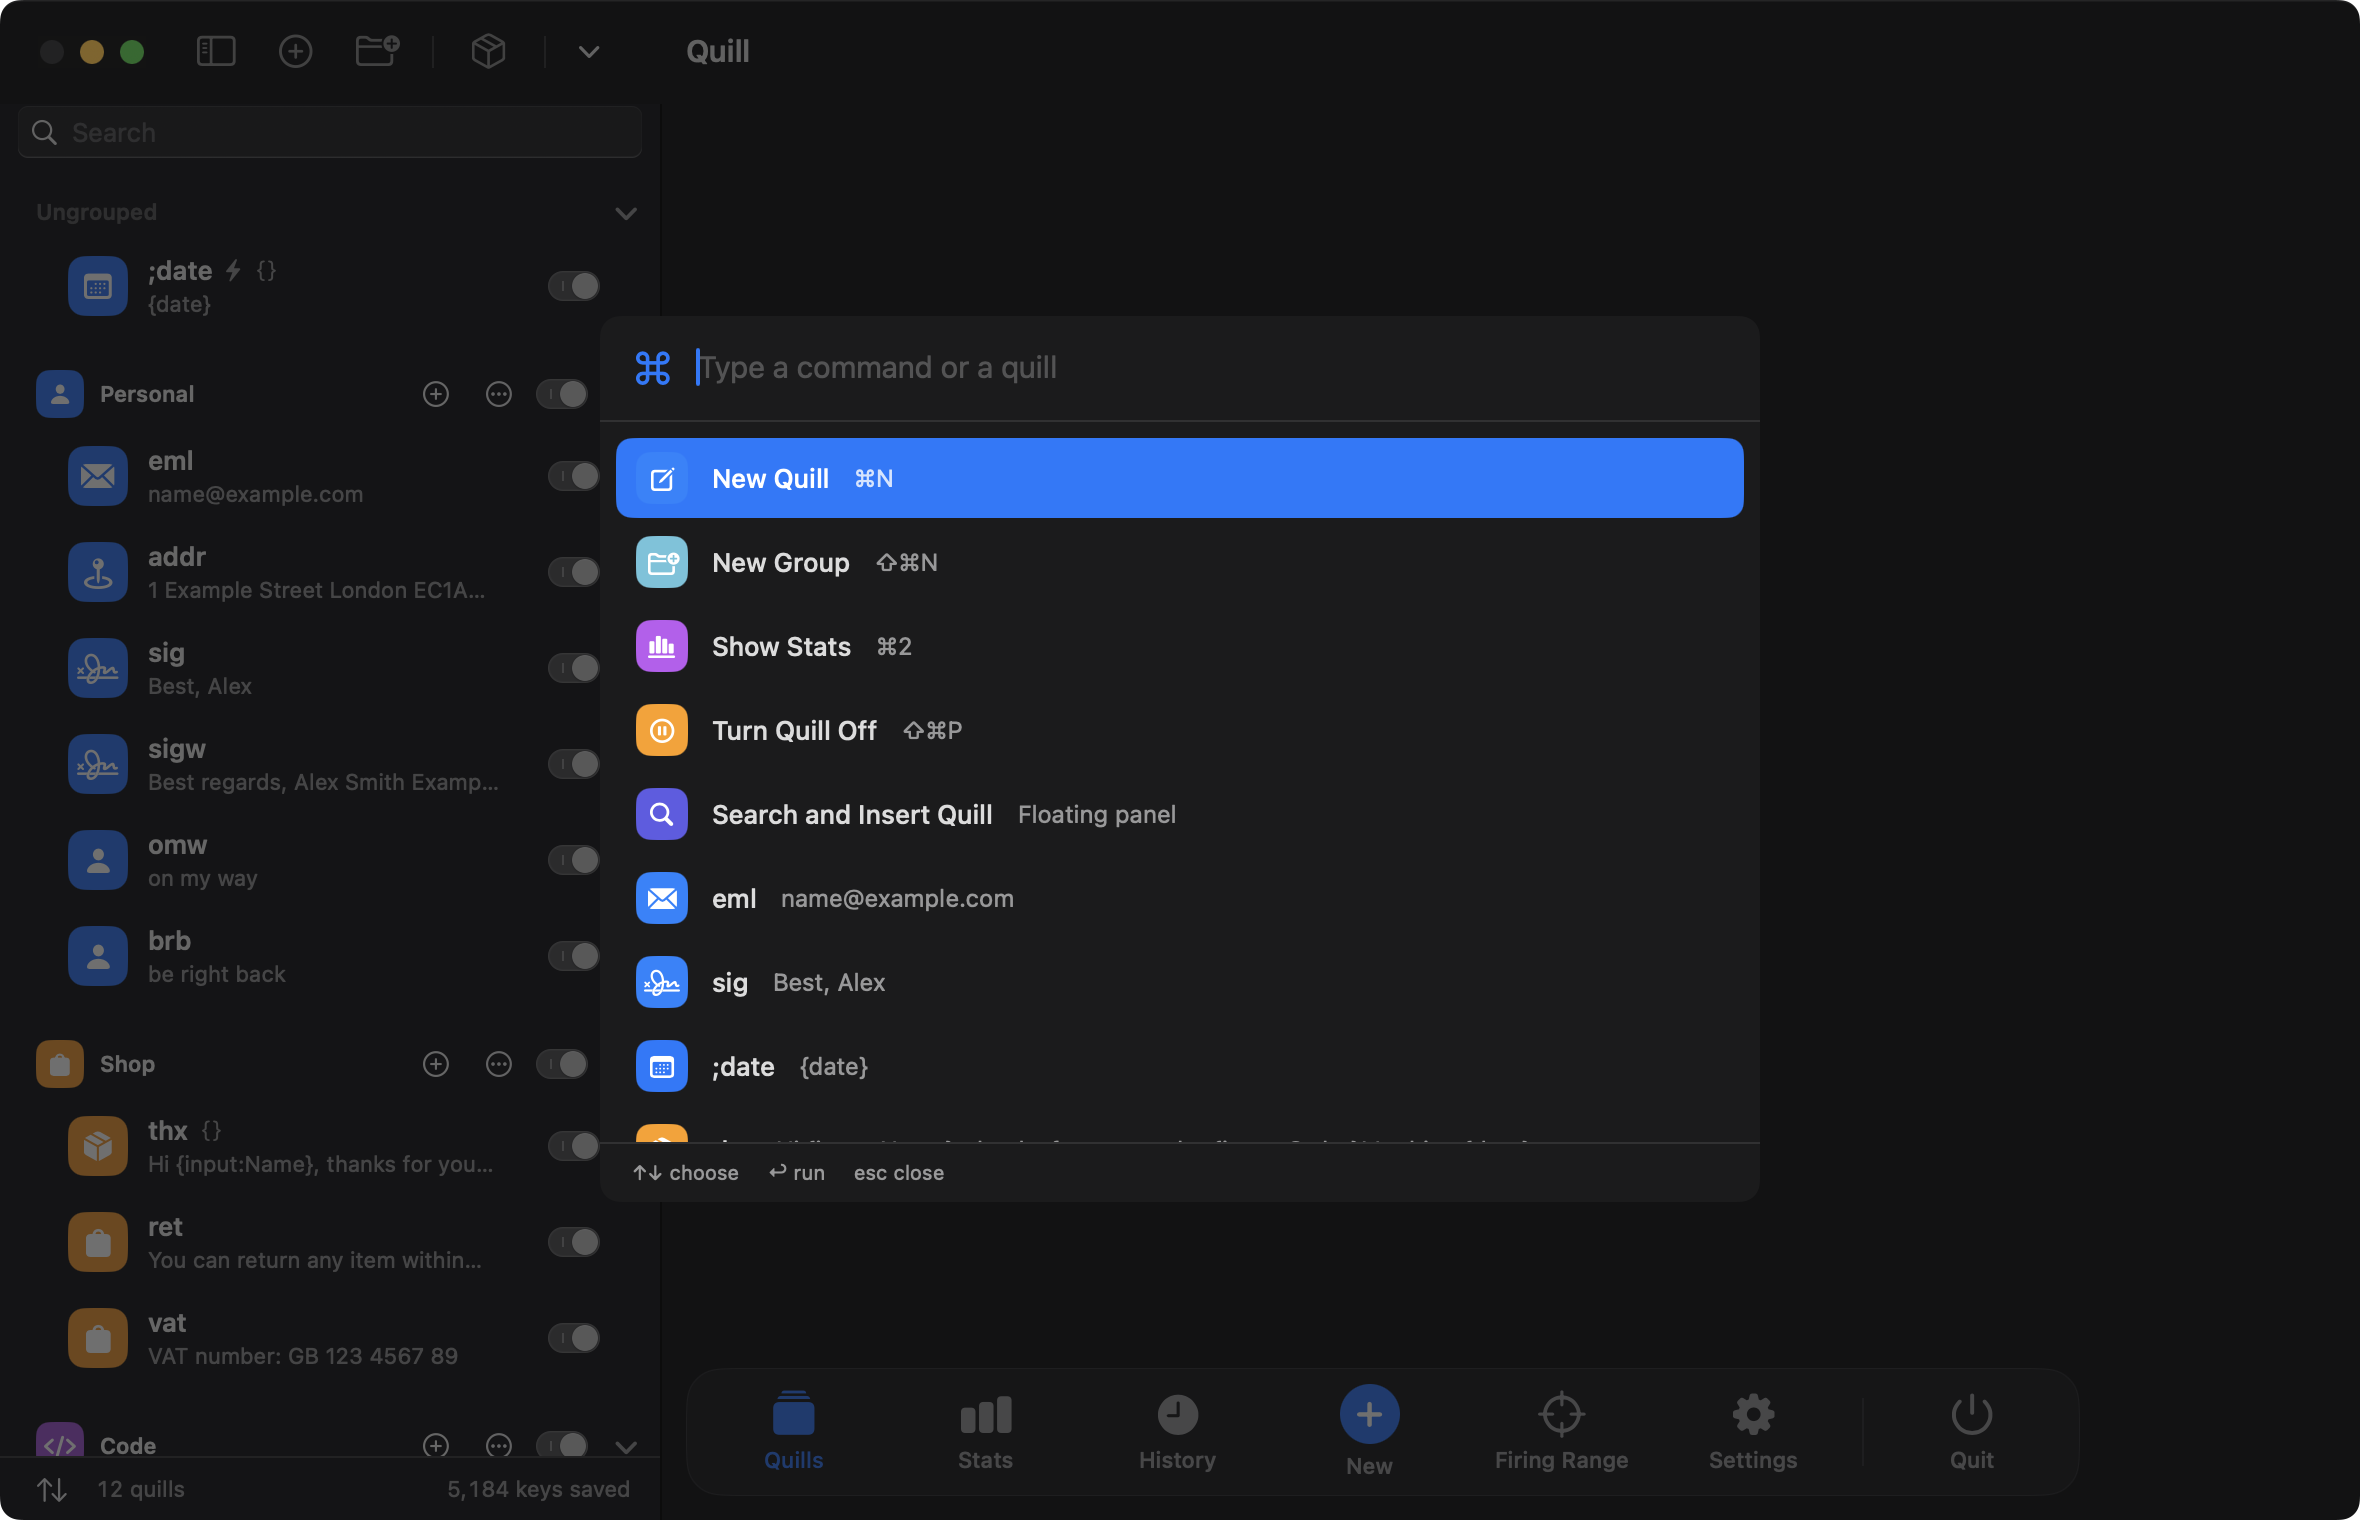
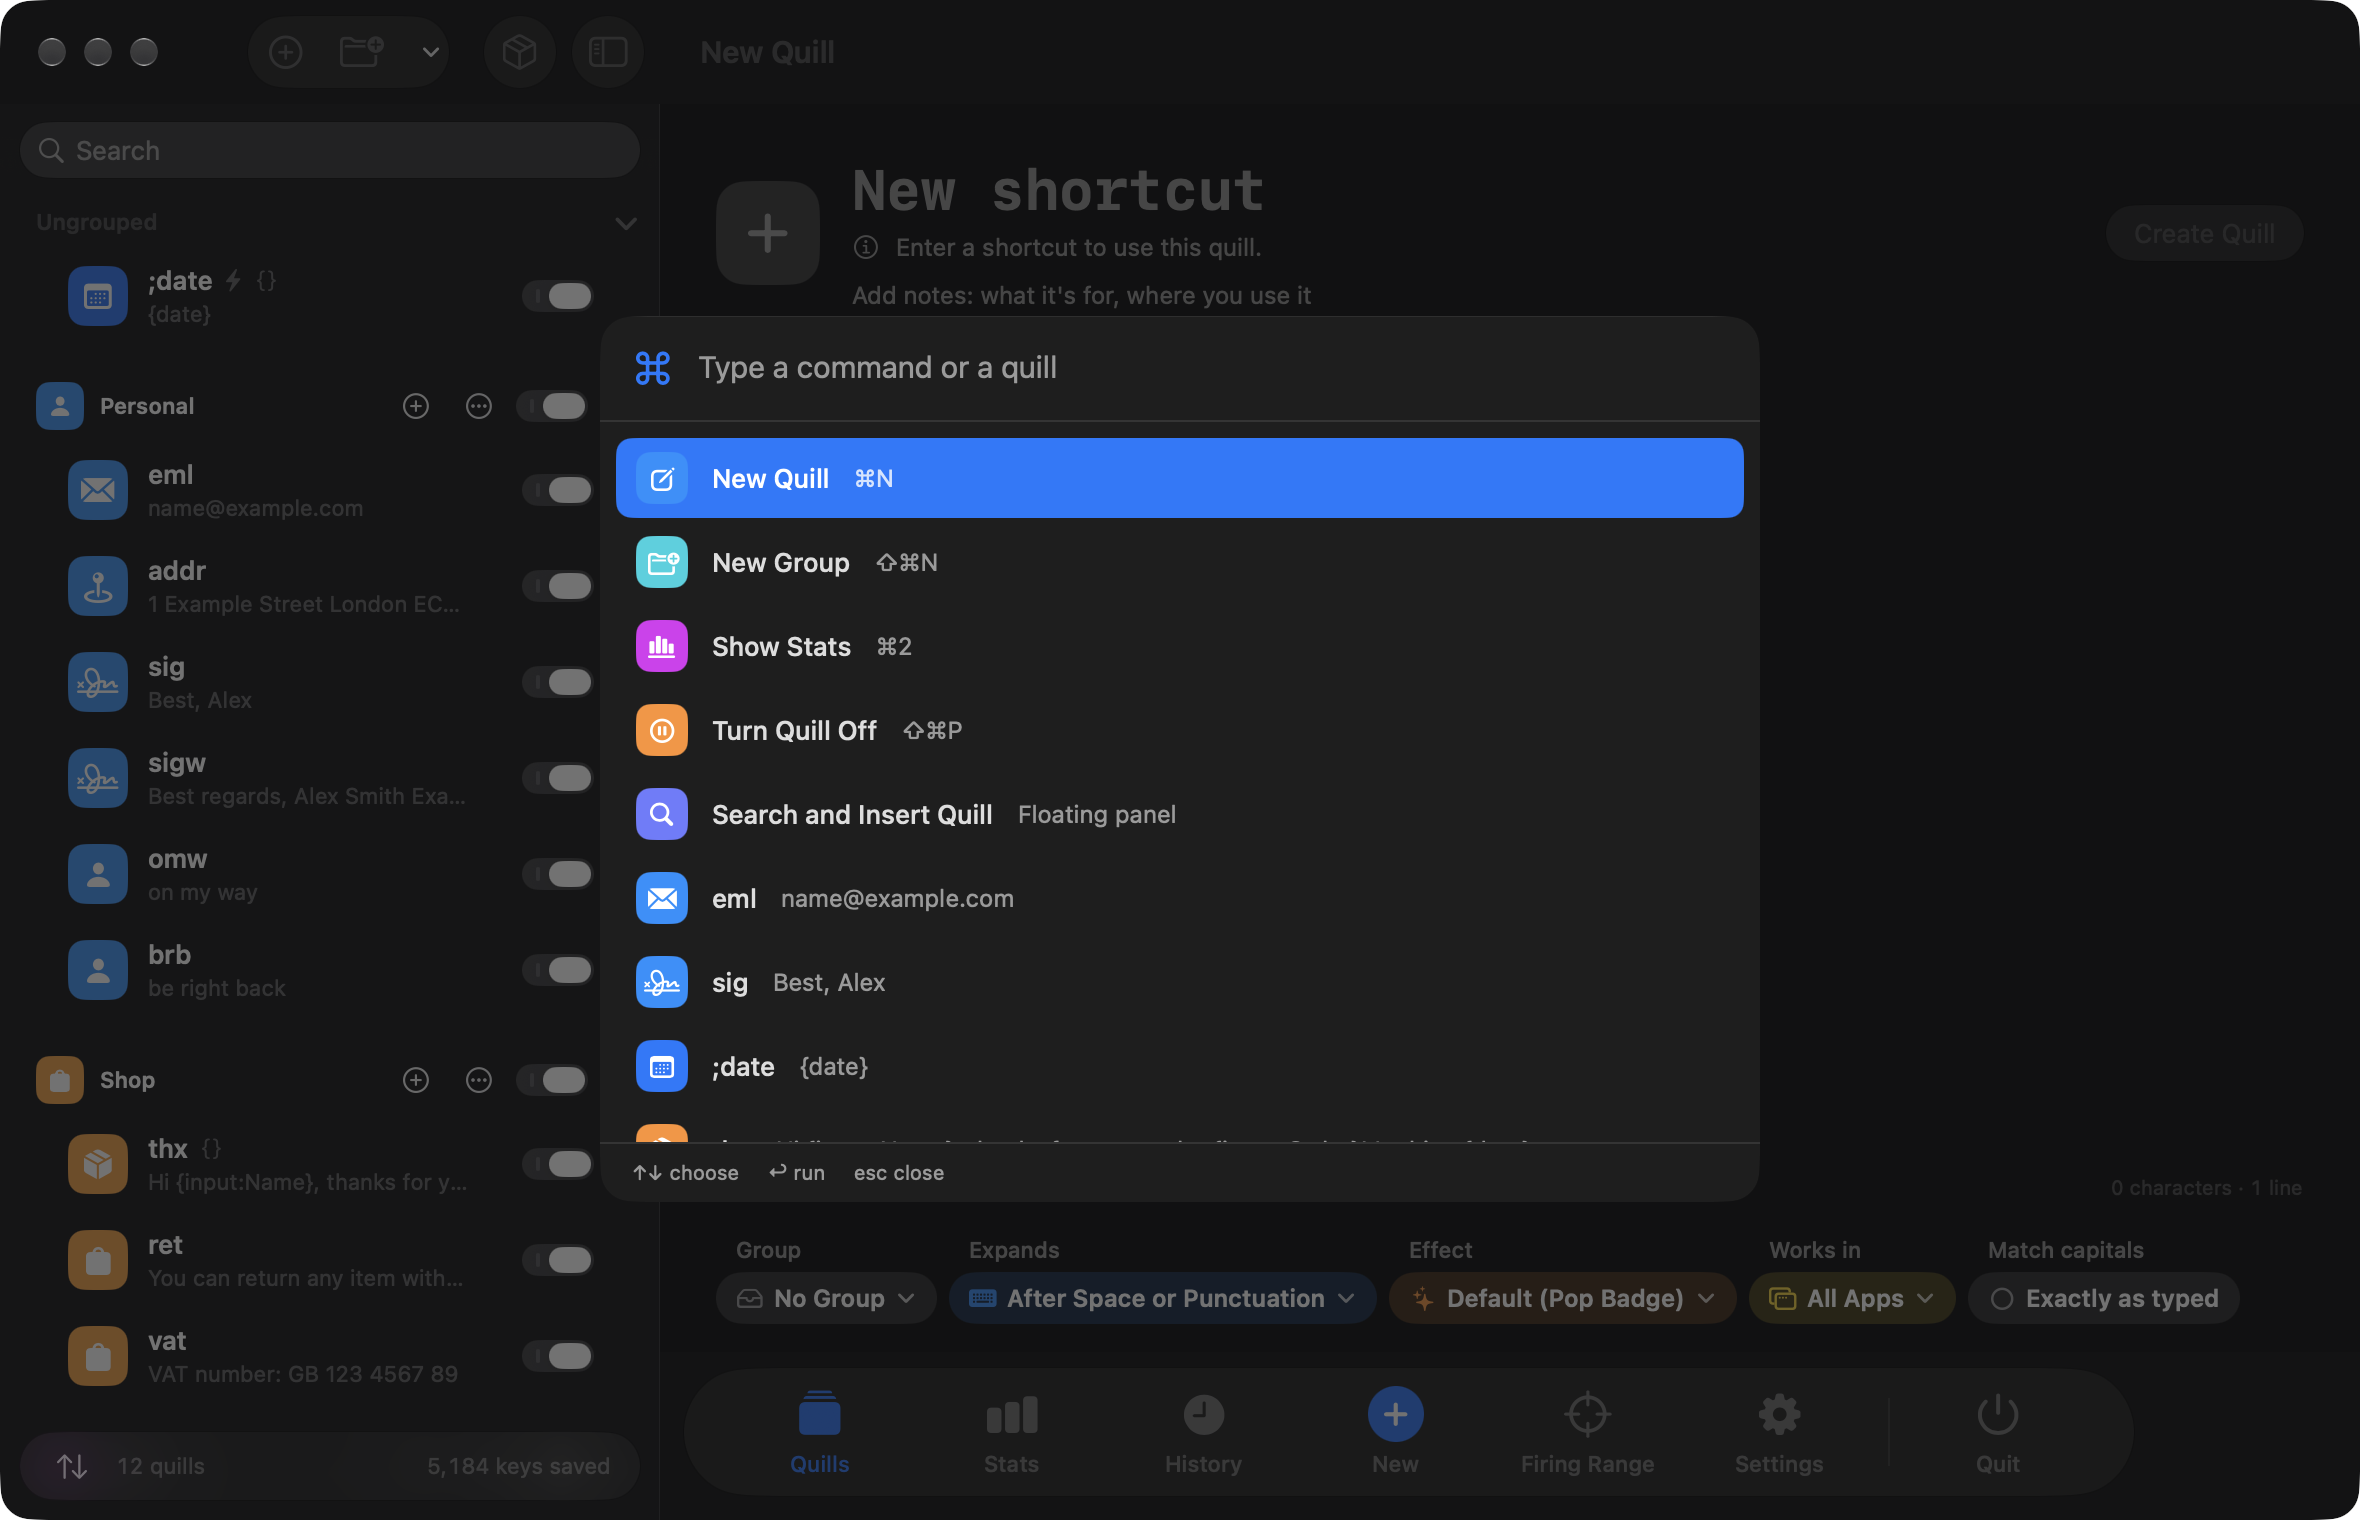
Quill 1.4.3: version, README and screenshots

diff --git a/README.md b/README.md
@@ -35,8 +35,10 @@ The most useful first:
 - **Suggestion bubble.** Matching quills appear above your text as you type. Space accepts an exact match, Tab the highlighted one, ↑ ↓ choose, Esc dismisses.
 - **Tokens and fill-in fields.** `{date}`, `{date:FORMAT}`, `{time}`, `{clipboard}` and `{cursor}`, plus `{input:Name}`, which asks for a value in a small form before the text goes in.
 - **On and off in place.** Every quill and group has its own switch in the sidebar, and Quill itself turns off or pauses from the menu bar (<kbd>⇧</kbd> <kbd>⌘</kbd> <kbd>P</kbd>).
-- **Menu bar panel.** Search your quills, filter by group, switch them on and off, or click one to type it where you were typing. A tab bar along the bottom jumps to any page, or quits Quill.
+- **Menu bar panel.** Search your quills, filter with pills in each group's colour, switch them on and off, or click one to paste it straight where your cursor is (your clipboard is put back). A tab bar along the bottom jumps to any page, or quits Quill.
 - **Firing Range.** A practice page where your quills fire for real, with a clickable cheat sheet, a hit counter and an effect to try. Practice never counts towards your stats.
+- **Opens ready to write.** With no quill selected, the main panel is a blank quill: type a shortcut and its text, then Create Quill. Nothing is saved until you do.
+- **Options as coloured pills.** Under each quill, its group, when it expands, its effect, the apps it works in and capitals sit in one row of labelled pills. The group pill takes the group's colour and icon.
 - **One Edit sheet.** Shortcut, text, notes, group, colour and icon for any quill in one place: right-click › Edit…, double-click, or New. Search hundreds of SF Symbols or pick any emoji, with the system colours and your own saved colours.
 - **Notes on every quill.** Jot down what a quill is for under its title; searches match notes too.
 - **Collapsible groups.** Each with its own icon, colour and on/off switch.
@@ -44,8 +46,8 @@ The most useful first:
 - **Bring your quills.** Import your macOS Text Replacements, or add a starter pack: emoji shortcodes (`:fire:` → 🔥), typo fixes (`teh` → `the`) and date formats (`;dmy` → `18/11/2026`).
 - **Fine control.** Limit a quill to certain apps, pause Quill in an app, match capitals (`EML` → ALL CAPS), drop the space after an expansion (the default) or keep it, and press Delete straight after one to undo it.
 - **Stats and History.** Keys and time saved, your streak, busiest hours, top apps and quills, a Tidy Up list, and a searchable log of recent expansions.
-- **13 effects, combinable.** Pop Badge, Typewriter, Highlight, Ink Underline, Confetti, Sparkle, Cyber and more, drawn over the text and respecting Reduce Motion. Choose several and they play together.
-- **One window.** Your quills stay in the sidebar, and a floating tab bar switches the right-hand side between the editor, Stats, History, the Firing Range and Settings, with New and Quit.
+- **13 effects, combinable.** Pop Badge, Typewriter, Highlight, Ink Underline, Confetti, Sparkle, Cyber and more, drawn over the text and respecting Reduce Motion. Choose one per quill from a gallery where every effect plays a live preview on that quill's own text, or several in Settings to play together.
+- **One window.** Your quills stay in the sidebar, and a floating glass tab bar switches the right-hand side between the editor, Stats, History, the Firing Range and Settings, with New and Quit.
 - **Keyboard first.** <kbd>⌘</kbd> <kbd>K</kbd> command palette, a global search hotkey, `quill://` links to any page, and Shortcuts app actions (Insert Quill, Get Quill Text, Add Quill, Turn Quill On/Off).
 - **Private and local.** One JSON file on your Mac with daily backups and JSON import and export. Password fields are never seen. The only network request is a daily update check against GitHub Releases.
 
@@ -65,7 +67,7 @@ The most useful first:
 
 | Quills and editor | Edit sheet |
 | --- | --- |
-| ![The sidebar with collapsible groups and on/off switches, and the editor open for thx](docs/screenshots/snippets.png) | ![The Edit sheet: shortcut, group, text, notes, colours and a searchable icon browser](docs/screenshots/appearance.png) |
+| ![The sidebar with collapsible groups and on/off switches, and the editor open for thx with its coloured option pills](docs/screenshots/snippets.png) | ![The Edit sheet: shortcut, group, text, notes, colours and a searchable icon browser](docs/screenshots/appearance.png) |
 
 | Stats | Firing Range |
 | --- | --- |
